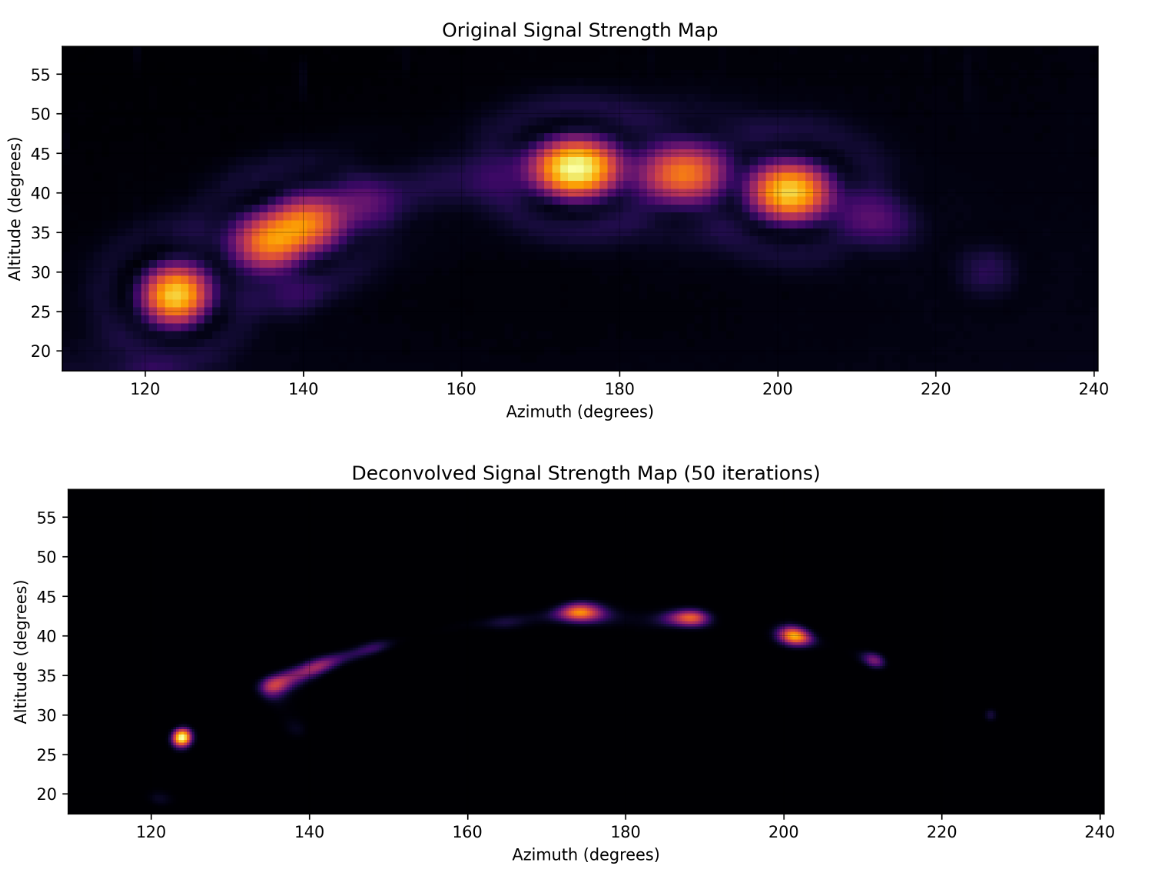
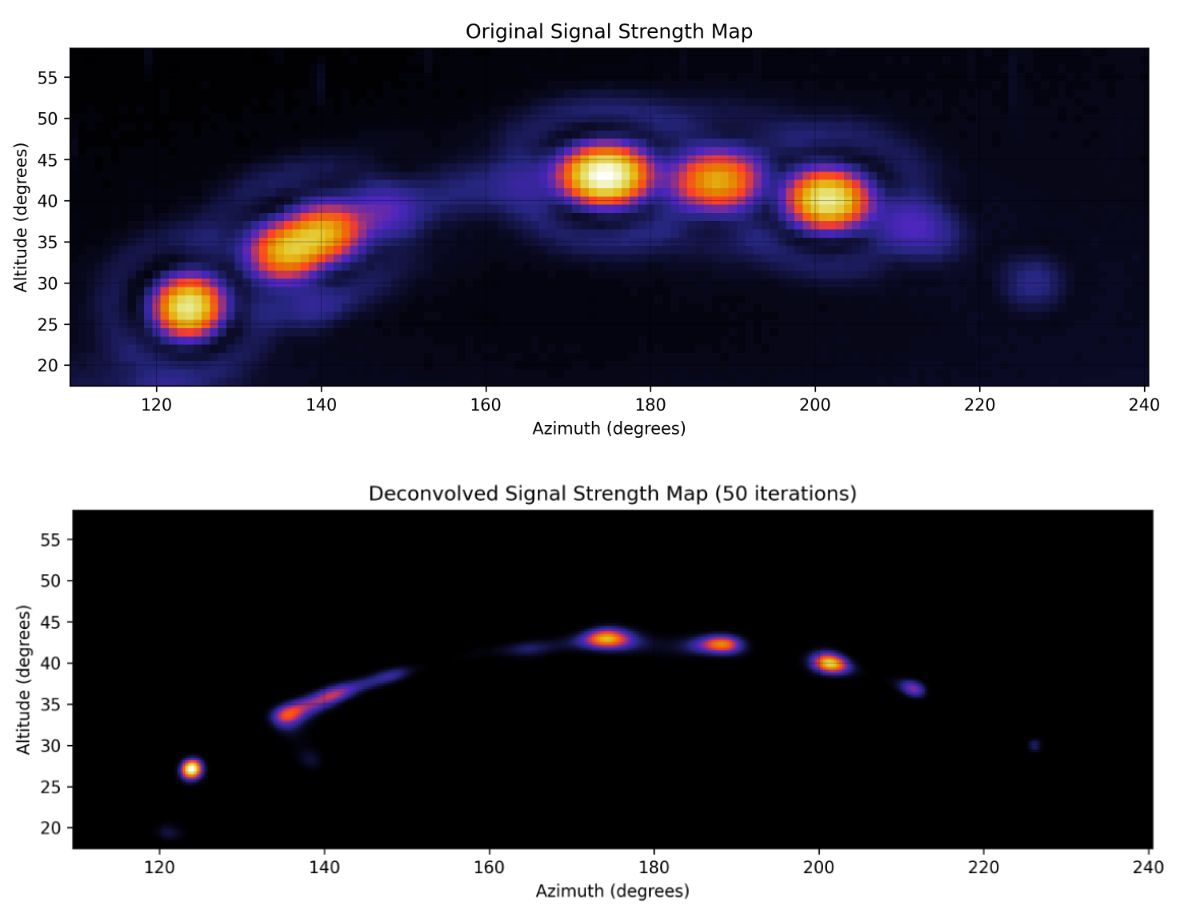
updated image ouput with CMRmap

diff --git a/deconvolute_image.py b/deconvolute_image.py
@@ -166,7 +166,7 @@ def fill_missing_values(grid):
         return grid
 
 
-def plot_signal_map(grid, extent, title, cbar_label, filename, cmap='inferno', save_dir=None):
+def plot_signal_map(grid, extent, title, cbar_label, filename, cmap='CMRmap', save_dir=None):
     """Create and save a visualization of the signal strength map."""
     plt.figure(figsize=(12, 10))
     im = plt.imshow(
